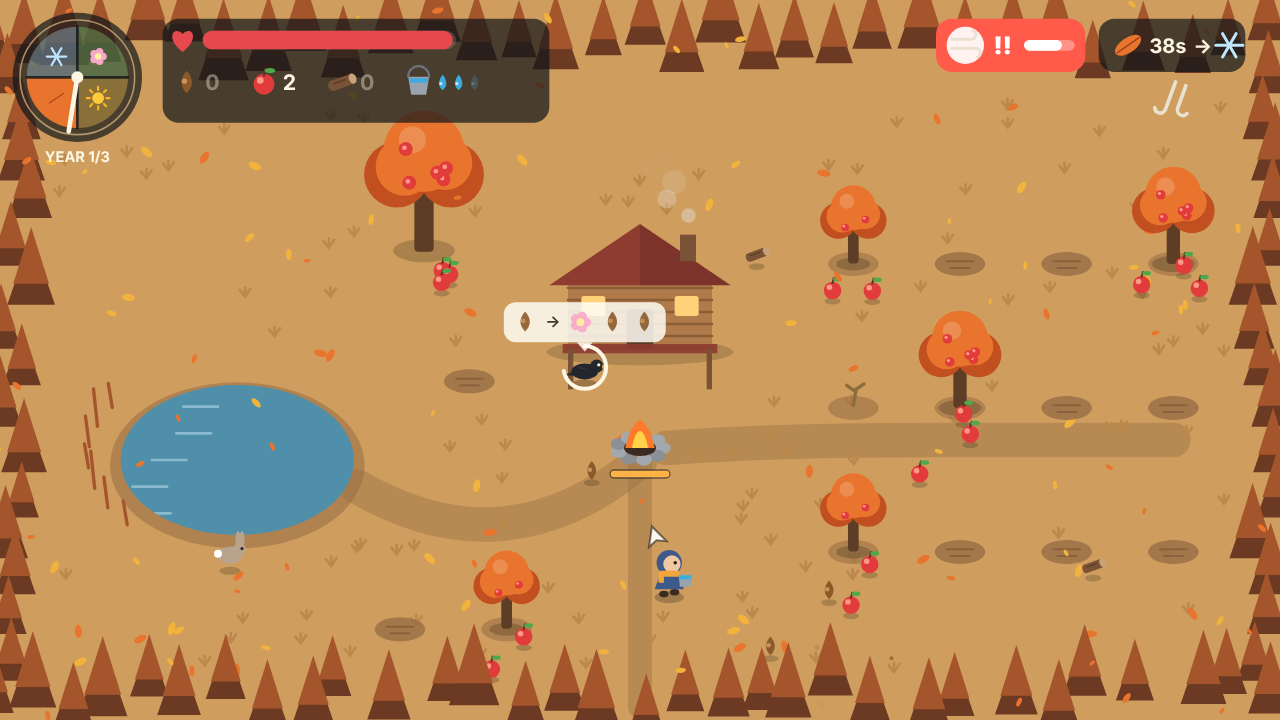
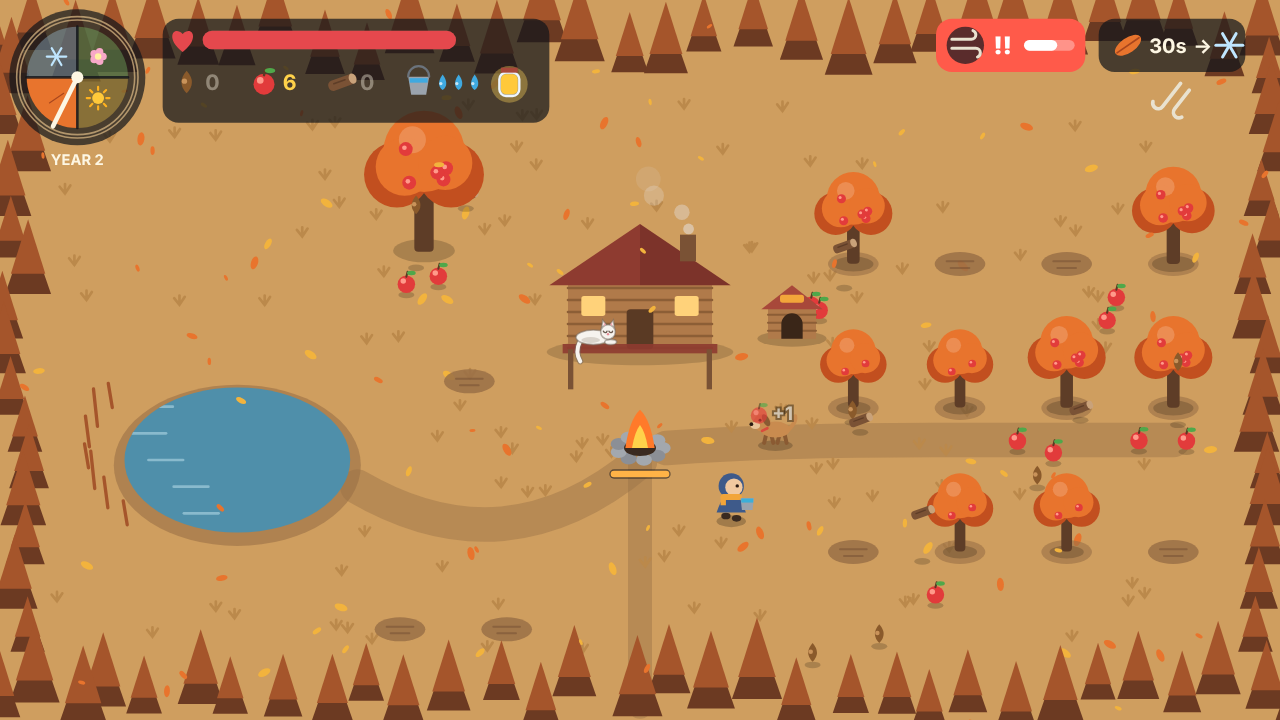
Retake every screenshot from the current build and add a gallery
All 16 screenshots now show the latest game in year 2: the dog with its
house, the porch cat, the sun jar, the new wildfire, gust and blizzard.
The README gets a captioned screenshot gallery and notes the longer summer.

diff --git a/README.md b/README.md
@@ -38,7 +38,7 @@ Walk over seeds, fruit and wood to pick them up. Survive **3 winters** to win; a
 | Season | What changes | Your job | Danger |
 |---|---|---|---|
 | **Spring** (rain) | Soil is soft. Seeds can only be planted now. The pond is full. | Plant seeds in the soil plots. | Rabbits come to eat your sprouts. Chase them off. |
-| **Summer** (heat) | The sun hurts you outside of shade. The pond shrinks. Sprouts dry out. | Carry water from the pond to your sprouts. Rest in tree shade or on the porch. | Heat stroke. Sprouts that dry out wither. |
+| **Summer** (heat) | Summer lasts 10 seconds longer than the other seasons. The sun hurts you outside of shade. The pond shrinks. Sprouts dry out. | Carry water from the pond to your sprouts. Rest in tree shade or on the porch. | Heat stroke. Sprouts that dry out wither. |
 | **Fall** (wind) | Sprouts that survived become trees. Trees drop fruit, seeds and branches. Wind pushes you and blows loose fruit away; fruit blown into the pond or off the map is lost. | Gather fruit (basket holds 6) and wood (arms hold 6). Collect seeds for next spring. Stock the fire. | Fruit left on the ground rots when winter comes. |
 | **Winter** (snow, night) | It's dark and you move slowly through snow. The fire burns fuel fast. Hunger is sharp. The pond freezes over (slippery). | Keep the hearth burning. Eat. Venture into the dark for deadwood, or chop one of your own trees. | Cold away from the fire light. Wolves in the dark. Standing on the ice when spring thaws drops you in. |
 
@@ -59,13 +59,9 @@ Once it has a house, the dog goes home when you do: whenever you're on the porch
 
 If you don't adopt it by the end of summer, it leaves, and it comes back next summer. Press the act key beside your dog when there's nothing else to do, and you'll pet it.
 
-![The dog and its house](screenshots/dog.png)
-
 ### The porch cat
 
 At the start of year 2, a white cat wanders in, hops up onto the red porch beam of the cabin and lies stretched out along it for the rest of the game. Its tail hangs over the edge and swings lazily. Now and then it opens its yellow eyes for a look around, then dozes off again. It wears a little red scarf in winter. Stand beside it and press the act key to pet it: it purrs and a **yellow heart** pops up. Petting the dog pops a **red heart**.
-
-![The porch cat](screenshots/cat.png)
 
 ### The sun jar: carry summer into winter
 
@@ -76,8 +72,6 @@ You start with an empty glass jar, shown at the right end of your item bar.
 - **Winter:** away from the fire, press the act key to open it. For 10 seconds a circle of summer moves with you: you stay warm, the dark lifts, and the snow melts under your feet so you walk at full speed. It doesn't stop wolves; that's the dog's job.
 
 Then the jar is empty until next summer. It turns the season itself into something you can store and spend, and it makes a long trip into the dark for wood possible.
-
-![Opening the sun jar in winter](screenshots/jar-winter.png)
 
 ### Tree memories
 
@@ -118,6 +112,25 @@ So the player plans a cycle: plant more in spring to have more shade, food and f
 - **Winter to spring:** the ice visibly cracks in the last 5 seconds; anyone still on it falls through.
 - Each new year is harder (hotter summers, colder and hungrier winters, more rabbits and wolves).
 
+## Screenshots
+
+| | |
+|---|---|
+| ![Spring: sprouts, a rabbit coming for them, the cat on the porch](screenshots/spring.png) | ![Summer: the sun jar filling while you water sprouts](screenshots/summer.png) |
+| **Spring:** plant seeds; a red **!!** marks a rabbit going for your sprouts | **Summer:** carry water in the heat while the sun jar fills |
+| ![Fall: trees heavy with fruit, the dog fetching](screenshots/fall.png) | ![Winter: the hearth, deadwood glowing in the dark](screenshots/winter.png) |
+| **Fall:** gather fruit and wood; the dog fetches for you | **Winter:** keep the fire alive and venture into the dark for wood |
+| ![The summer wildfire](screenshots/fire.png) | ![The fall gust](screenshots/gust.png) |
+| **Wildfire:** one tree and two sprouts at most; one splash puts each out | **Gust:** fruit flies everywhere; fruit blown into the pond sinks |
+| ![The winter blizzard](screenshots/blizzard.png) | ![A felled tree's summer ghost](screenshots/ghost.png) |
+| **Blizzard:** the light shrinks and a wolf comes in | **Tree memories:** a felled tree flashes its summer shade, year and rings |
+| ![Opening the sun jar in winter](screenshots/jar-winter.png) | ![The guard rabbit and the crow's gift](screenshots/spring2.png) |
+| **Sun jar:** a circle of summer in the dark | **Animals remember:** the guard rabbit and the crow's gift of seeds |
+| ![The dog and its house](screenshots/dog.png) | ![A dog with no house shivers by the fire](screenshots/dog-winter.png) |
+| **The dog** helps you all year | **No house?** It shivers by the fire and shows what it needs |
+| ![The dog napping at its house](screenshots/dog-resting.png) | ![The white cat on the porch beam](screenshots/cat.png) |
+| **Home:** the dog naps at its house when you're home | **The porch cat** arrives in year 2 |
+
 ## Accessibility (Options menu)
 
 - **Remappable controls** for every action (two keys per action; the second is a fixed alternative).
@@ -155,6 +168,6 @@ Tools used to make it: a text editor, a web browser, and Playwright with headles
 ## Files
 
 - `index.html`: the complete game
-- `screenshots/`: one screenshot per season, the title screen, the dog, the weather events and the sun jar
+- `screenshots/`: every season, each weather event, the sun jar, the dog, the cat and the title screen
 - `PITCH.md`: a 5-minute pitch script and likely judge questions
 - `SUBMISSION.md`: the deliverables checklist mapped to the brief and rubric
